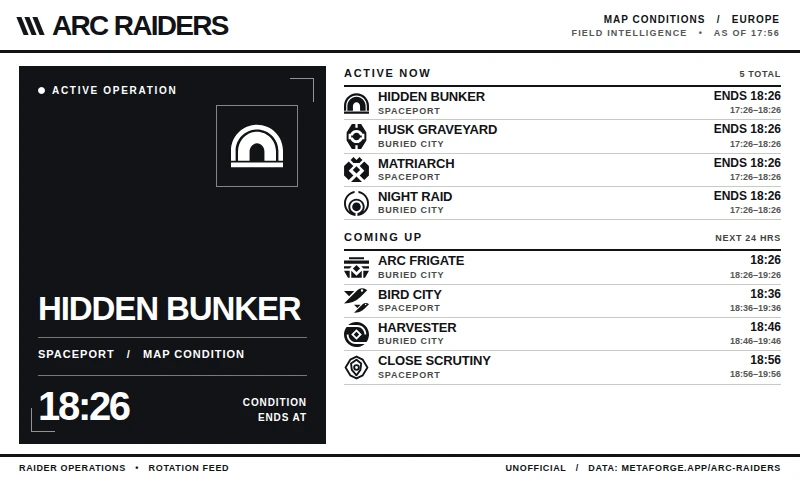
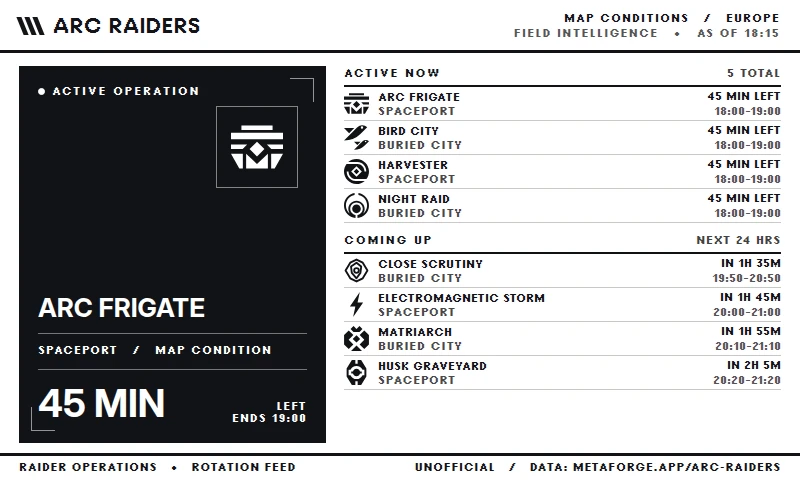
refactor: use trmnl typography and restore countdowns

diff --git a/TRMNL/src/transform.js b/TRMNL/src/transform.js
@@ -30,6 +30,12 @@ function run(input) {
     const key = name.toLowerCase().trim().replace(/[^a-z0-9]+/g, '-').replace(/^-|-$/g, '');
     return 'arc-icon-' + (iconIds.has(key) ? key : 'default');
   }
+  function untilLabel(minutes) {
+    if (minutes < 60) return minutes + ' MIN';
+    const hours = Math.floor(minutes / 60);
+    const rest = minutes % 60;
+    return hours + 'H' + (rest ? ' ' + rest + 'M' : '');
+  }
   function formatTime(epoch) {
     try {
       return new Intl.DateTimeFormat('en-GB', {
@@ -74,13 +80,17 @@ function run(input) {
   }).sort((a, b) => a.start - b.start || a.end - b.end || a.name.localeCompare(b.name));
   const active = all.filter(ev => ev.start <= now && now < ev.end);
   const upcoming = all.filter(ev => now < ev.start && ev.start <= now + 86400000);
-  const decorate = (ev, live) => ({
-    name: ev.name.toUpperCase(), map: shorterMap(ev.map), level: 'MAP CONDITION',
-    when: formatTime(ev.start) + '–' + formatTime(ev.end),
-    time: displayTime(live ? ev.end : ev.start),
-    state: live ? 'LIVE' : 'NEXT', long: ev.name.length > 15,
-    icon_id: iconId(ev.name)
-  });
+  const decorate = (ev, live) => {
+    const remaining = Math.ceil(((live ? ev.end : ev.start) - now) / 60000);
+    return {
+      name: ev.name.toUpperCase(), map: shorterMap(ev.map), level: 'MAP CONDITION',
+      when: displayTime(ev.start) + '–' + formatTime(ev.end),
+      time: displayTime(live ? ev.end : ev.start),
+      remaining, until_label: untilLabel(remaining),
+      state: live ? 'LIVE' : 'NEXT', long: ev.name.length > 15,
+      icon_id: iconId(ev.name)
+    };
+  };
   // Keep order chronological in each group; the feature pane prioritizes major live conditions.
   const featured = active.find(ev => kind(ev) === 'MAJOR') || active[0] || upcoming[0] || null;
   const featureLive = Boolean(featured && featured.start <= now);

diff --git a/README.md b/README.md
@@ -2,7 +2,7 @@
 
 An unofficial TRMNL plugin showing current and upcoming ARC Raiders map conditions using the [MetaForge event schedule](https://metaforge.app/arc-raiders).
 
-Choose a matchmaking region in the plugin settings. The plugin supports full, half horizontal, half vertical and quadrant layouts, and refreshes every 30 minutes. Times use your TRMNL account's time zone. Conditions reflect the schedule at the displayed update time; start and end times remain useful between refreshes.
+Choose a matchmaking region in the plugin settings. The plugin supports full, half horizontal, half vertical and quadrant layouts, and refreshes every 30 minutes. Times use your TRMNL account's time zone. Countdowns show the time remaining at the displayed update time and refresh with the screen; scheduled times are also shown.
 
 ![ARC Raiders map conditions, full layout](TRMNL/media/preview_full.webp)
 
